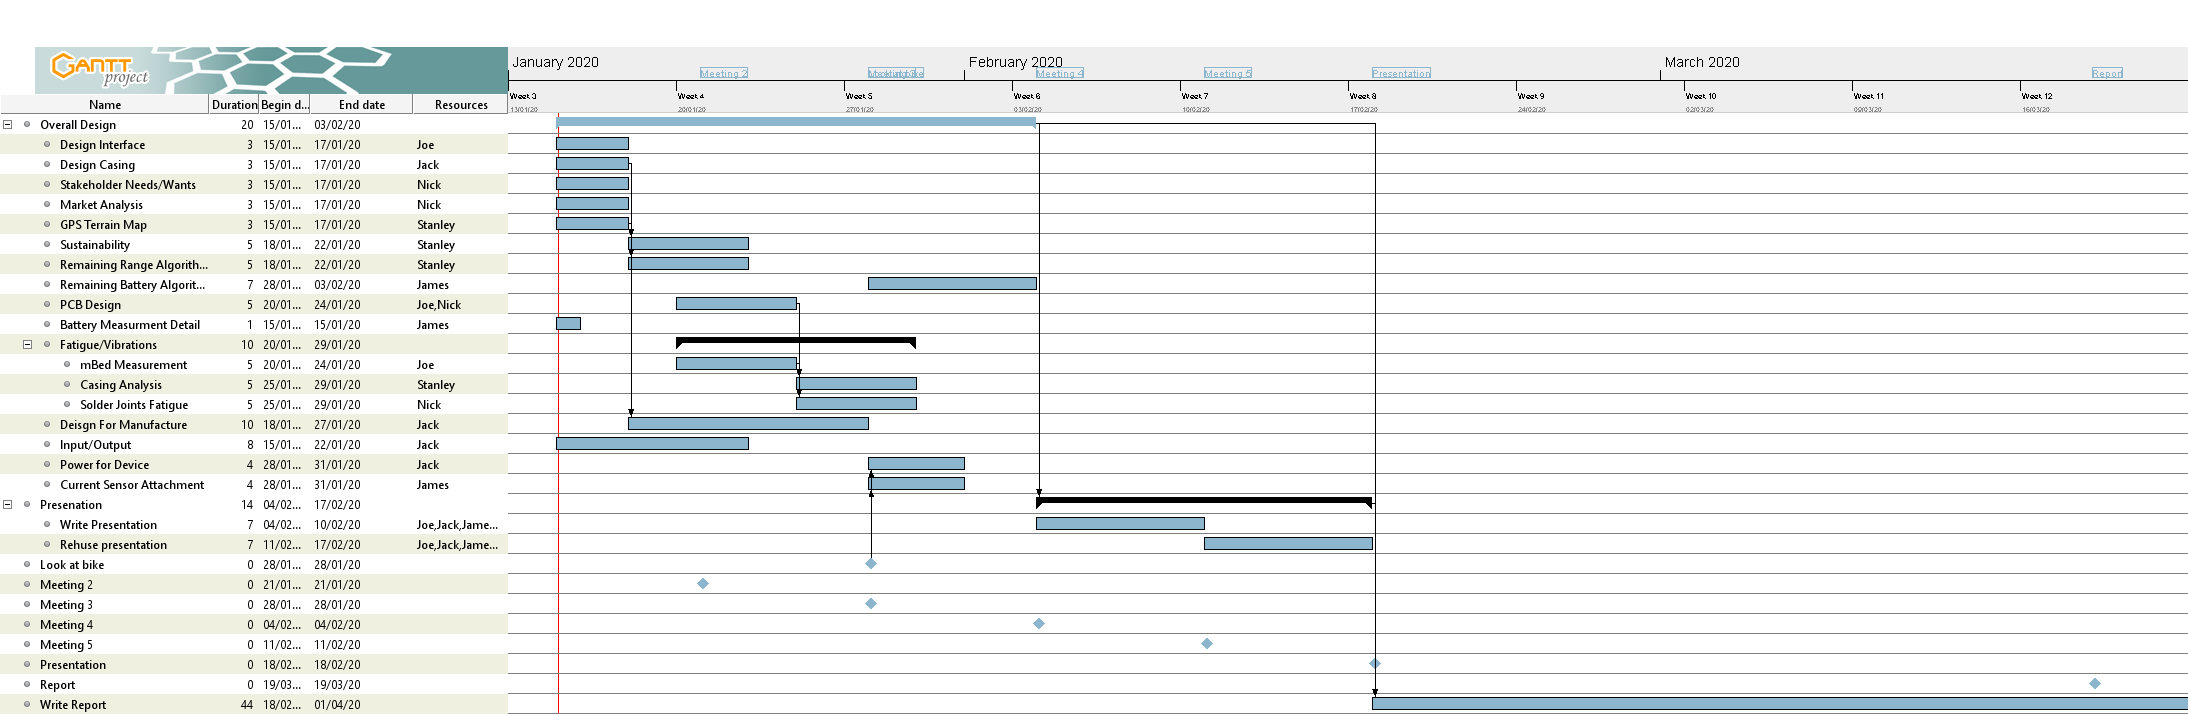
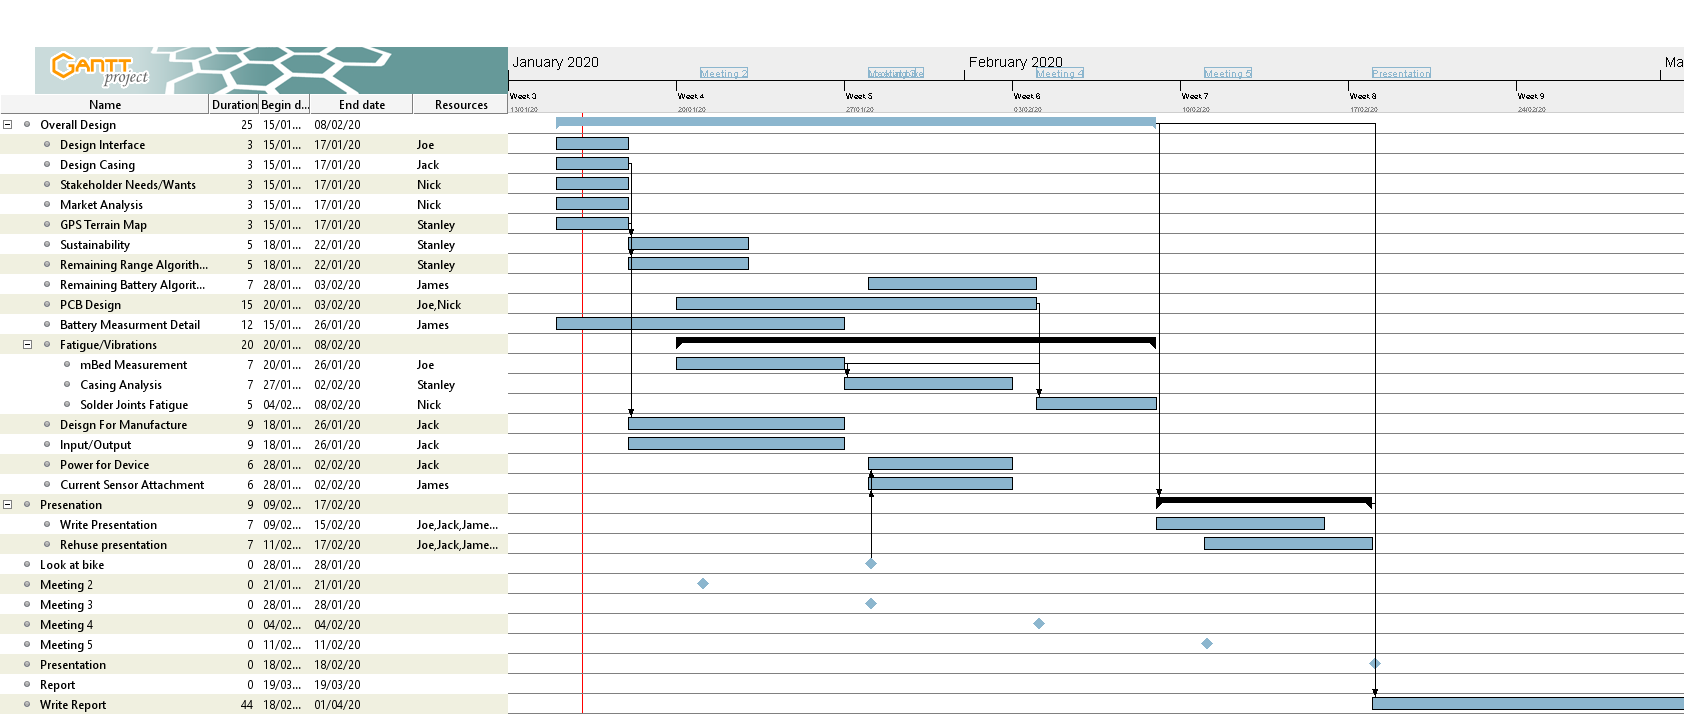
Add files via upload

diff --git a/DesignGant-tasks.html b/DesignGant-tasks.html
@@ -162,7 +162,7 @@ h5.header {
 </div>
 </td><td valign="top" class="cell">
 <div style="margin:0; padding:0; padding-left:0.5em">
-<div style="margin: 0; padding: 0;">20</div>
+<div style="margin: 0; padding: 0;">25</div>
 </div>
 </td><td valign="top" class="cell">
 <div style="margin:0; padding:0; padding-left:0.5em">
@@ -170,7 +170,7 @@ h5.header {
 </div>
 </td><td valign="top" class="cell">
 <div style="margin:0; padding:0; padding-left:0.5em">
-<div style="margin: 0; padding: 0;">03/02/20</div>
+<div style="margin: 0; padding: 0;">08/02/20</div>
 </div>
 </td><td valign="top" class="cell">
 <div style="margin:0; padding:0; padding-left:0.5em"></div>
@@ -351,7 +351,7 @@ h5.header {
 </div>
 </td><td valign="top" class="cell">
 <div style="margin:0; padding:0; padding-left:0.5em">
-<div style="margin: 0; padding: 0;">5</div>
+<div style="margin: 0; padding: 0;">15</div>
 </div>
 </td><td valign="top" class="cell">
 <div style="margin:0; padding:0; padding-left:0.5em">
@@ -359,7 +359,7 @@ h5.header {
 </div>
 </td><td valign="top" class="cell">
 <div style="margin:0; padding:0; padding-left:0.5em">
-<div style="margin: 0; padding: 0;">24/01/20</div>
+<div style="margin: 0; padding: 0;">03/02/20</div>
 </div>
 </td><td valign="top" class="cell">
 <div style="margin:0; padding:0; padding-left:0.5em"></div>
@@ -372,7 +372,7 @@ h5.header {
 </div>
 </td><td valign="top" class="cell">
 <div style="margin:0; padding:0; padding-left:0.5em">
-<div style="margin: 0; padding: 0;">1</div>
+<div style="margin: 0; padding: 0;">12</div>
 </div>
 </td><td valign="top" class="cell">
 <div style="margin:0; padding:0; padding-left:0.5em">
@@ -380,7 +380,7 @@ h5.header {
 </div>
 </td><td valign="top" class="cell">
 <div style="margin:0; padding:0; padding-left:0.5em">
-<div style="margin: 0; padding: 0;">15/01/20</div>
+<div style="margin: 0; padding: 0;">26/01/20</div>
 </div>
 </td><td valign="top" class="cell">
 <div style="margin:0; padding:0; padding-left:0.5em"></div>
@@ -393,7 +393,7 @@ h5.header {
 </div>
 </td><td valign="top" class="cell">
 <div style="margin:0; padding:0; padding-left:0.5em">
-<div style="margin: 0; padding: 0;">10</div>
+<div style="margin: 0; padding: 0;">20</div>
 </div>
 </td><td valign="top" class="cell">
 <div style="margin:0; padding:0; padding-left:0.5em">
@@ -401,7 +401,7 @@ h5.header {
 </div>
 </td><td valign="top" class="cell">
 <div style="margin:0; padding:0; padding-left:0.5em">
-<div style="margin: 0; padding: 0;">29/01/20</div>
+<div style="margin: 0; padding: 0;">08/02/20</div>
 </div>
 </td><td valign="top" class="cell">
 <div style="margin:0; padding:0; padding-left:0.5em"></div>
@@ -414,7 +414,7 @@ h5.header {
 </div>
 </td><td valign="top" class="cell">
 <div style="margin:0; padding:0; padding-left:0.5em">
-<div style="margin: 0; padding: 0;">5</div>
+<div style="margin: 0; padding: 0;">7</div>
 </div>
 </td><td valign="top" class="cell">
 <div style="margin:0; padding:0; padding-left:0.5em">
@@ -422,7 +422,7 @@ h5.header {
 </div>
 </td><td valign="top" class="cell">
 <div style="margin:0; padding:0; padding-left:0.5em">
-<div style="margin: 0; padding: 0;">24/01/20</div>
+<div style="margin: 0; padding: 0;">26/01/20</div>
 </div>
 </td><td valign="top" class="cell">
 <div style="margin:0; padding:0; padding-left:0.5em"></div>
@@ -435,15 +435,15 @@ h5.header {
 </div>
 </td><td valign="top" class="cell">
 <div style="margin:0; padding:0; padding-left:0.5em">
-<div style="margin: 0; padding: 0;">5</div>
+<div style="margin: 0; padding: 0;">7</div>
 </div>
 </td><td valign="top" class="cell">
 <div style="margin:0; padding:0; padding-left:0.5em">
-<div style="margin: 0; padding: 0;">25/01/20</div>
+<div style="margin: 0; padding: 0;">27/01/20</div>
 </div>
 </td><td valign="top" class="cell">
 <div style="margin:0; padding:0; padding-left:0.5em">
-<div style="margin: 0; padding: 0;">29/01/20</div>
+<div style="margin: 0; padding: 0;">02/02/20</div>
 </div>
 </td><td valign="top" class="cell">
 <div style="margin:0; padding:0; padding-left:0.5em"></div>
@@ -460,11 +460,11 @@ h5.header {
 </div>
 </td><td valign="top" class="cell">
 <div style="margin:0; padding:0; padding-left:0.5em">
-<div style="margin: 0; padding: 0;">25/01/20</div>
+<div style="margin: 0; padding: 0;">04/02/20</div>
 </div>
 </td><td valign="top" class="cell">
 <div style="margin:0; padding:0; padding-left:0.5em">
-<div style="margin: 0; padding: 0;">29/01/20</div>
+<div style="margin: 0; padding: 0;">08/02/20</div>
 </div>
 </td><td valign="top" class="cell">
 <div style="margin:0; padding:0; padding-left:0.5em"></div>
@@ -477,7 +477,7 @@ h5.header {
 </div>
 </td><td valign="top" class="cell">
 <div style="margin:0; padding:0; padding-left:0.5em">
-<div style="margin: 0; padding: 0;">10</div>
+<div style="margin: 0; padding: 0;">9</div>
 </div>
 </td><td valign="top" class="cell">
 <div style="margin:0; padding:0; padding-left:0.5em">
@@ -485,7 +485,7 @@ h5.header {
 </div>
 </td><td valign="top" class="cell">
 <div style="margin:0; padding:0; padding-left:0.5em">
-<div style="margin: 0; padding: 0;">27/01/20</div>
+<div style="margin: 0; padding: 0;">26/01/20</div>
 </div>
 </td><td valign="top" class="cell">
 <div style="margin:0; padding:0; padding-left:0.5em"></div>
@@ -498,15 +498,15 @@ h5.header {
 </div>
 </td><td valign="top" class="cell">
 <div style="margin:0; padding:0; padding-left:0.5em">
-<div style="margin: 0; padding: 0;">8</div>
+<div style="margin: 0; padding: 0;">9</div>
 </div>
 </td><td valign="top" class="cell">
 <div style="margin:0; padding:0; padding-left:0.5em">
-<div style="margin: 0; padding: 0;">15/01/20</div>
+<div style="margin: 0; padding: 0;">18/01/20</div>
 </div>
 </td><td valign="top" class="cell">
 <div style="margin:0; padding:0; padding-left:0.5em">
-<div style="margin: 0; padding: 0;">22/01/20</div>
+<div style="margin: 0; padding: 0;">26/01/20</div>
 </div>
 </td><td valign="top" class="cell">
 <div style="margin:0; padding:0; padding-left:0.5em"></div>
@@ -519,7 +519,7 @@ h5.header {
 </div>
 </td><td valign="top" class="cell">
 <div style="margin:0; padding:0; padding-left:0.5em">
-<div style="margin: 0; padding: 0;">4</div>
+<div style="margin: 0; padding: 0;">6</div>
 </div>
 </td><td valign="top" class="cell">
 <div style="margin:0; padding:0; padding-left:0.5em">
@@ -527,7 +527,7 @@ h5.header {
 </div>
 </td><td valign="top" class="cell">
 <div style="margin:0; padding:0; padding-left:0.5em">
-<div style="margin: 0; padding: 0;">31/01/20</div>
+<div style="margin: 0; padding: 0;">02/02/20</div>
 </div>
 </td><td valign="top" class="cell">
 <div style="margin:0; padding:0; padding-left:0.5em"></div>
@@ -540,7 +540,7 @@ h5.header {
 </div>
 </td><td valign="top" class="cell">
 <div style="margin:0; padding:0; padding-left:0.5em">
-<div style="margin: 0; padding: 0;">4</div>
+<div style="margin: 0; padding: 0;">6</div>
 </div>
 </td><td valign="top" class="cell">
 <div style="margin:0; padding:0; padding-left:0.5em">
@@ -548,7 +548,7 @@ h5.header {
 </div>
 </td><td valign="top" class="cell">
 <div style="margin:0; padding:0; padding-left:0.5em">
-<div style="margin: 0; padding: 0;">31/01/20</div>
+<div style="margin: 0; padding: 0;">02/02/20</div>
 </div>
 </td><td valign="top" class="cell">
 <div style="margin:0; padding:0; padding-left:0.5em"></div>
@@ -561,11 +561,11 @@ h5.header {
 </div>
 </td><td valign="top" class="cell">
 <div style="margin:0; padding:0; padding-left:0.5em">
-<div style="margin: 0; padding: 0;">14</div>
+<div style="margin: 0; padding: 0;">9</div>
 </div>
 </td><td valign="top" class="cell">
 <div style="margin:0; padding:0; padding-left:0.5em">
-<div style="margin: 0; padding: 0;">04/02/20</div>
+<div style="margin: 0; padding: 0;">09/02/20</div>
 </div>
 </td><td valign="top" class="cell">
 <div style="margin:0; padding:0; padding-left:0.5em">
@@ -586,11 +586,11 @@ h5.header {
 </div>
 </td><td valign="top" class="cell">
 <div style="margin:0; padding:0; padding-left:0.5em">
-<div style="margin: 0; padding: 0;">04/02/20</div>
+<div style="margin: 0; padding: 0;">09/02/20</div>
 </div>
 </td><td valign="top" class="cell">
 <div style="margin:0; padding:0; padding-left:0.5em">
-<div style="margin: 0; padding: 0;">10/02/20</div>
+<div style="margin: 0; padding: 0;">15/02/20</div>
 </div>
 </td><td valign="top" class="cell">
 <div style="margin:0; padding:0; padding-left:0.5em"></div>
@@ -792,7 +792,7 @@ h5.header {
 <tr>
 <td bgcolor="#6d9ec6" width="50%"><font color="#FFFFFF"><b>Ganttproject (2.8.10 Pilsen (build 2363))</b></font></td><td bgcolor="#6d9ec6" width="50%" align="right"><b><a href="http://ganttproject.biz">ganttproject.biz</a></b>
 <br>
-<b>15/01/20 - 23:15:02</b></td>
+<b>16/01/20 - 17:57:41</b></td>
 </tr>
 </table>
 </body>

diff --git a/DesignGant-chart.html b/DesignGant-chart.html
@@ -122,7 +122,7 @@ div.page_links {
 <tr>
 <td bgcolor="#6d9ec6" width="50%"><font color="#FFFFFF"><b>Ganttproject (2.8.10 Pilsen (build 2363))</b></font></td><td bgcolor="#6d9ec6" width="50%" align="right"><b><a href="http://ganttproject.biz">ganttproject.biz</a></b>
 <br>
-<b>15/01/20 - 23:15:02</b></td>
+<b>16/01/20 - 17:57:41</b></td>
 </tr>
 </table>
 </body>

diff --git a/DesignGant.html b/DesignGant.html
@@ -152,7 +152,7 @@ div.page_links {
 <tr>
 <td bgcolor="#6d9ec6" width="50%"><font color="#FFFFFF"><b>Ganttproject (2.8.10 Pilsen (build 2363))</b></font></td><td bgcolor="#6d9ec6" width="50%" align="right"><b><a href="http://ganttproject.biz">ganttproject.biz</a></b>
 <br>
-<b>15/01/20 - 23:15:02</b></td>
+<b>16/01/20 - 17:57:41</b></td>
 </tr>
 </table>
 </body>

diff --git a/index.html b/index.html
@@ -152,7 +152,7 @@ div.page_links {
 <tr>
 <td bgcolor="#6d9ec6" width="50%"><font color="#FFFFFF"><b>Ganttproject (2.8.10 Pilsen (build 2363))</b></font></td><td bgcolor="#6d9ec6" width="50%" align="right"><b><a href="http://ganttproject.biz">ganttproject.biz</a></b>
 <br>
-<b>15/01/20 - 23:15:02</b></td>
+<b>16/01/20 - 17:57:41</b></td>
 </tr>
 </table>
 </body>

diff --git a/DesignGant-resources.html b/DesignGant-resources.html
@@ -172,7 +172,7 @@ h5.header {
 <tr>
 <td bgcolor="#6d9ec6" width="50%"><font color="#FFFFFF"><b>Ganttproject (2.8.10 Pilsen (build 2363))</b></font></td><td bgcolor="#6d9ec6" width="50%" align="right"><b><a href="http://ganttproject.biz">ganttproject.biz</a></b>
 <br>
-<b>15/01/20 - 23:15:02</b></td>
+<b>16/01/20 - 17:57:41</b></td>
 </tr>
 </table>
 </body>
